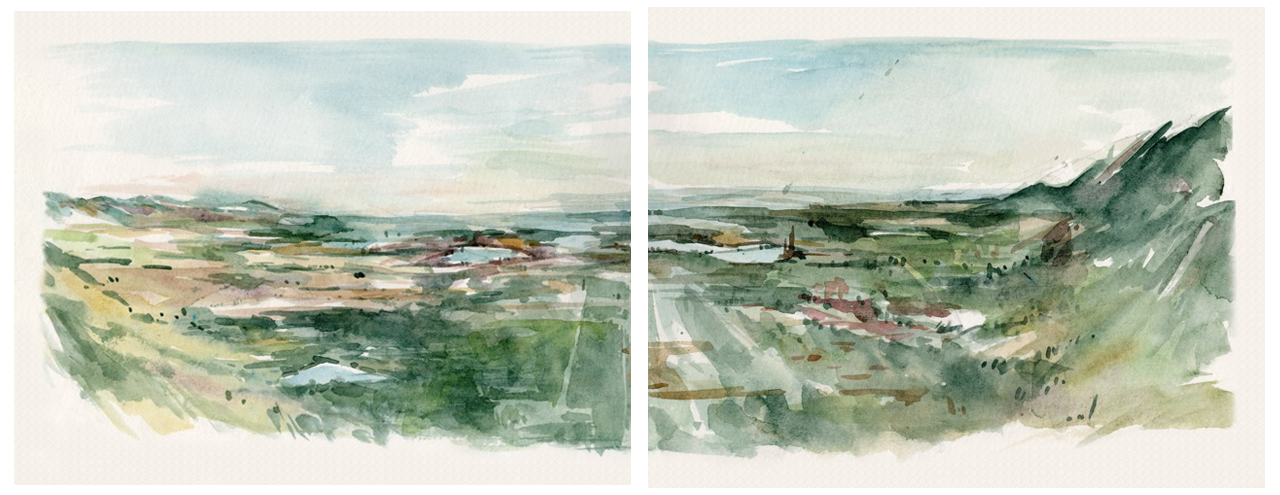
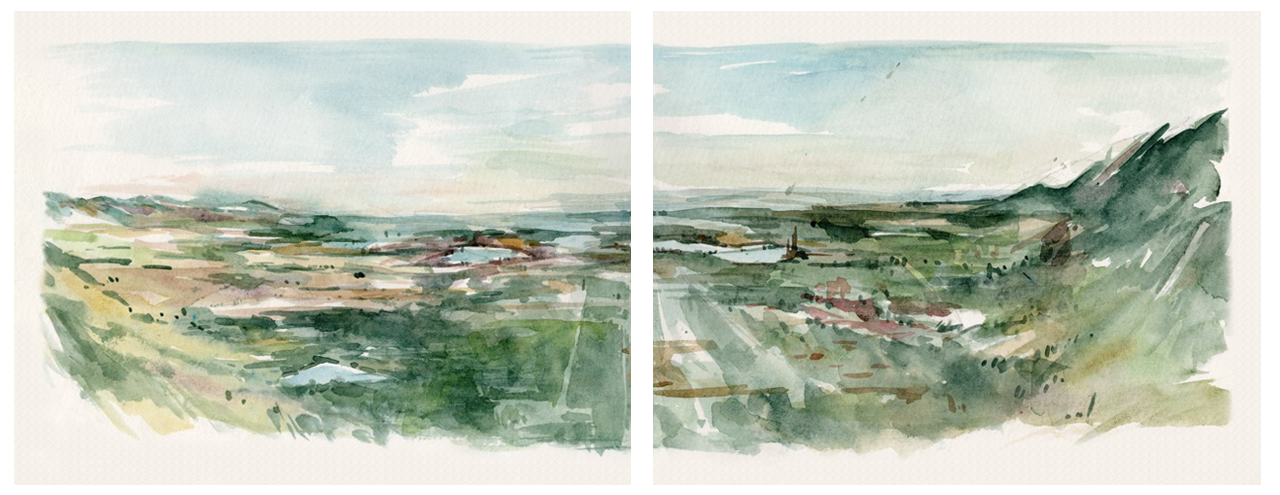
added GA4 script and improved seo preview keywords on search engine

diff --git a/site-react/src/pages/About.jsx b/site-react/src/pages/About.jsx
@@ -1,6 +1,13 @@
+import Seo from '../components/Seo'
+
 export default function About(){
   return (
     <>
+      <Seo
+        title="About linghux | Watercolor artist and prints"
+        description="Learn about Wendy Zhang, a Canadian watercolor artist creating originals, limited edition prints, and open edition prints rooted in Newfoundland and Colorado landscapes."
+        keywords="about, watercolor artist, shop originals, shop limited edition prints, shop open edition prints, Canadian painter"
+      />
       <section>
         <div className="content box style2">
           <div className="about-grid">
@@ -9,7 +16,7 @@ export default function About(){
             </div>
             <div className="about-text">
               <header>
-                <h2>About</h2>
+                <h1>About</h1>
               </header>
               <p>Wendy Zhang’s work is shaped by a life lived across three countries and varied landscapes. Moving between cultures taught her that what endures beyond language, geography, or circumstance is a single, unbroken thread — woven between people, and the earth that holds them.  In unfamiliar places, she found herself drawn to the quiet exchanges and shared moments that give a place its meaning, and to the way the natural world carries its own kind of memory.</p>
               <p>Watercolor became her way of honoring those encounters. Using both her camera and her brushes, Wendy translates fleeting experiences into gentle, lasting forms—allowing each painting to serve as a bridge: between artist and viewer, between memory and presence, between a moment once lived and a moment newly felt. Through this process, she seeks to preserve what travel revealed to be essential: the invisible connection that bind us to one another, and to the living world we move through.</p>

diff --git a/site-react/src/pages/PortfolioList.jsx b/site-react/src/pages/PortfolioList.jsx
@@ -38,15 +38,18 @@ export default function PortfolioList({ category, heading = 'Artworks' }){
   }
 
   const pageTitle = category
-    ? `${heading} | Buy watercolor art by Linghux`
-    : 'Artworks | Buy original watercolor paintings and prints by Linghux'
+    ? `${heading} | Buy watercolor art by linghux`
+    : 'Artworks | Buy original watercolor paintings and prints by linghux'
   const pageDescription = category
     ? `Browse ${heading.toLowerCase()} by a Canadian watercolor artist, including Newfoundland and Colorado plein air landscape paintings.`
-    : 'Shop original watercolor paintings and prints by Linghux, including Newfoundland and Colorado landscapes and Canadian plein air artwork.'
+    : 'Shop original watercolor paintings and prints by linghux, including Newfoundland and Colorado landscapes and Canadian plein air artwork.'
+  const seoKeywords = category
+    ? `${heading.toLowerCase()}, shop ${heading.toLowerCase()}, watercolor art, original watercolor paintings, watercolor prints`
+    : 'shop originals, shop limited edition prints, shop open edition prints, watercolor paintings, watercolor prints, Canadian watercolor artist'
 
   return (
     <>
-      <Seo title={pageTitle} description={pageDescription} />
+      <Seo title={pageTitle} description={pageDescription} keywords={seoKeywords} />
       <section id="work" className="main style3">
         <div className="gallery-div">
         <header>

diff --git a/site-react/src/components/Seo.jsx b/site-react/src/components/Seo.jsx
@@ -13,13 +13,20 @@ function updateMeta(attribute, name, content) {
   element.setAttribute('content', content)
 }
 
-export default function Seo({ title, description, url, image }) {
+export default function Seo({ title, description, url, image, keywords }) {
   useEffect(() => {
     const pageTitle = title || DEFAULT_SEO.title
     const pageDescription = description || DEFAULT_SEO.description
+    const pageKeywords = typeof keywords === 'string'
+      ? keywords
+      : Array.isArray(keywords)
+        ? keywords.join(', ')
+        : DEFAULT_SEO.keywords
 
     document.title = pageTitle
     updateMeta('name', 'description', pageDescription)
+    updateMeta('name', 'keywords', pageKeywords)
+    updateMeta('property', 'og:site_name', 'linghux')
     updateMeta('property', 'og:title', pageTitle)
     updateMeta('property', 'og:description', pageDescription)
     updateMeta('property', 'og:type', 'website')
@@ -28,7 +35,7 @@ export default function Seo({ title, description, url, image }) {
     updateMeta('name', 'twitter:card', image ? 'summary_large_image' : 'summary')
     updateMeta('name', 'twitter:title', pageTitle)
     updateMeta('name', 'twitter:description', pageDescription)
-  }, [title, description, url, image])
+  }, [title, description, url, image, keywords])
 
   return null
 }

diff --git a/site-react/src/pages/Home.jsx b/site-react/src/pages/Home.jsx
@@ -48,8 +48,9 @@ export default function Home(){
   return (
     <>
       <Seo
-        title="Linghux | Original watercolor paintings and prints"
-        description="Explore original plein air watercolor artwork, Newfoundland and Colorado landscape paintings, and collectible watercolor prints by Linghux."
+        title="linghux | Original watercolor paintings and prints"
+        description="Explore original plein air watercolor artwork, Newfoundland and Colorado landscape paintings, and collectible watercolor prints by linghux."
+        keywords="shop originals, shop limited edition prints, shop open edition prints, about linghux, original watercolor paintings, watercolor prints"
       />
       <section id="home" className="main style1 dark fullscreen">
         <div className="content" aria-hidden="true" />
@@ -57,6 +58,7 @@ export default function Home(){
 
       <section className="home-intro-section">
         <div className="home-intro-copy">
+          <h1>Shop Originals, Limited Edition Prints, and Open Edition Prints</h1>
           <p>I wander for landscapes and linger for people, collecting their stories in watercolor.</p>
           <p>Tell me, where did the world speak to you most dearly?</p>
         </div>

diff --git a/site-react/src/components/Layout.jsx b/site-react/src/components/Layout.jsx
@@ -1,13 +1,41 @@
-import { useEffect } from 'react'
+import { useEffect, useLayoutEffect } from 'react'
 import { Outlet, useLocation } from 'react-router-dom'
 import Header from './Header'
 import Footer from './Footer'
+
+const scrollTop = () => {
+  if (typeof window === 'undefined') return
+  if ('scrollRestoration' in window.history) {
+    window.history.scrollRestoration = 'manual'
+  }
+  window.scrollTo({ top: 0, left: 0, behavior: 'auto' })
+  document.body.scrollTop = 0
+  document.documentElement.scrollTop = 0
+  window.requestAnimationFrame(() => window.scrollTo(0, 0))
+}
+
+const trackPageView = (url) => {
+  if (typeof window === 'undefined' || typeof window.gtag !== 'function') return
+  window.gtag('event', 'page_view', {
+    page_path: url,
+    page_location: window.location.href,
+    page_title: document.title,
+  })
+}
 
 export default function Layout(){
   const { pathname } = useLocation()
 
   useEffect(() => {
-    window.scrollTo({ top: 0, left: 0, behavior: 'auto' })
+    scrollTop()
+  }, [])
+
+  useEffect(() => {
+    trackPageView(pathname)
+  }, [pathname])
+
+  useLayoutEffect(() => {
+    scrollTop()
   }, [pathname])
 
   return (

diff --git a/site-react/index.html b/site-react/index.html
@@ -1,10 +1,18 @@
 <!doctype html>
 <html>
   <head>
+    <!-- Google tag (gtag.js) -->
+    <script async src="https://www.googletagmanager.com/gtag/js?id=G-4R7CLEFE2S"></script>
+    <script>
+      window.dataLayer = window.dataLayer || [];
+      function gtag(){dataLayer.push(arguments);}
+      gtag('js', new Date());
+      gtag('config', 'G-4R7CLEFE2S', { send_page_view: false });
+    </script>
     <meta charset="utf-8" />
     <meta name="viewport" content="width=device-width, initial-scale=1.0" />
     <meta name="description" content="Original watercolor paintings and prints for sale by a Canadian plein air artist, including Newfoundland landscape watercolor art." />
-    <title>Linghux | Original watercolor paintings</title>
+    <title>linghux | Original watercolor paintings</title>
     <link rel="icon" type="image/png" href="./public/logo.png" />
   </head>
   <body>

diff --git a/site-react/src/pages/WorkPortfolioItem.jsx b/site-react/src/pages/WorkPortfolioItem.jsx
@@ -347,17 +347,6 @@ export default function WorkPortfolioItem({ category }) {
           }}
         >
           <div className="fullscreen-image-content" onClick={(e) => e.stopPropagation()}>
-            <button
-              type="button"
-              className="fullscreen-close"
-              onClick={() => {
-                setIsFullscreenOpen(false)
-                setIsZoomed(false)
-              }}
-              aria-label="Close full screen preview"
-            >
-              ×
-            </button>
             <img
               src={activeImage || item.image}
               alt={imageAlt}

diff --git a/site-react/src/utils/seo.js b/site-react/src/utils/seo.js
@@ -1,7 +1,9 @@
 export const DEFAULT_SEO = {
-  title: 'Linghux | Original watercolor paintings for sale',
+  title: 'linghux | Original watercolor paintings for sale',
   description:
     'Original plein air watercolor art for sale by a Canadian artist, including Newfoundland and Colorado landscape watercolor paintings, original framed art, and affordable watercolor prints.',
+  keywords:
+    'original watercolor paintings, watercolor prints, shop originals, shop limited edition prints, shop open edition prints, about, Canadian watercolor artist',
 }
 
 export function buildImageAlt(item) {

diff --git a/site-react/src/styles.css b/site-react/src/styles.css
@@ -310,22 +310,7 @@ button:active {
   transform: scale(1.4);
   cursor: zoom-out;
 }
-.fullscreen-close {
-  position: absolute;
-  top: 0rem;
-  right: 0rem;
-  /* padding: 0.25rem 0.45rem; */
-  border: none;
-  background: transparent;
-  color: white;
-  cursor: pointer;
-  font-size: 2rem;
-  line-height: 1;
-}
-.fullscreen-close:hover,
-.fullscreen-close:focus {
-  background: rgba(255, 255, 255, 0.08);
-}
+
 .work-item-gallery {
   display: grid;
   grid-template-columns: repeat(3, minmax(0, 1fr));

diff --git a/site-react/readme.md b/site-react/readme.md
@@ -1,4 +1,4 @@
-# Linghux Website Setup
+# linghux Website Setup
 
 ## Domain
 
@@ -137,7 +137,7 @@ The order email includes:
 ## 📬 Newsletter (Beehiiv)
 
 * Platform: Beehiiv
-* Publication: Linghux
+* Publication: linghux
 
 ### Domains
 
